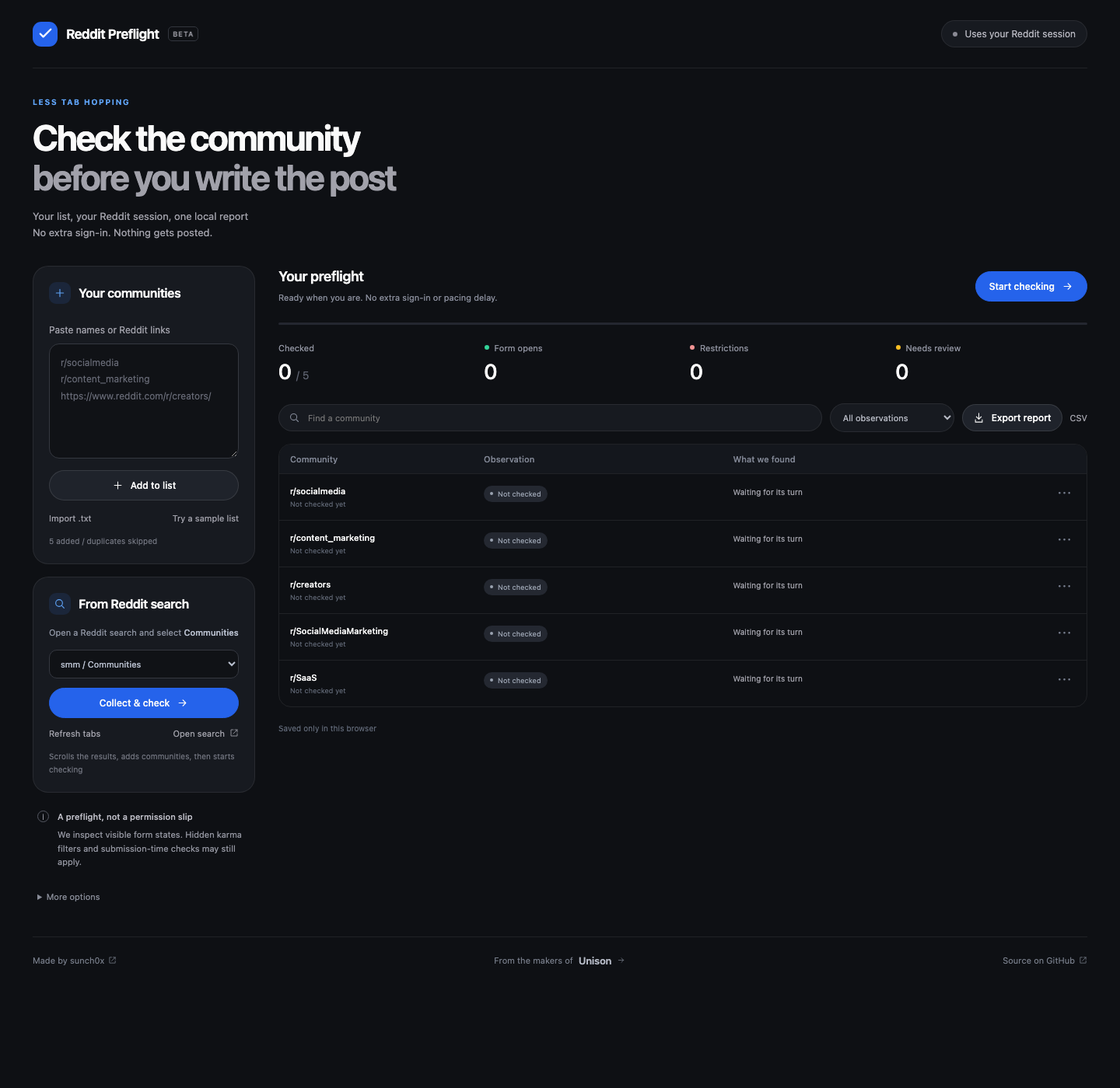
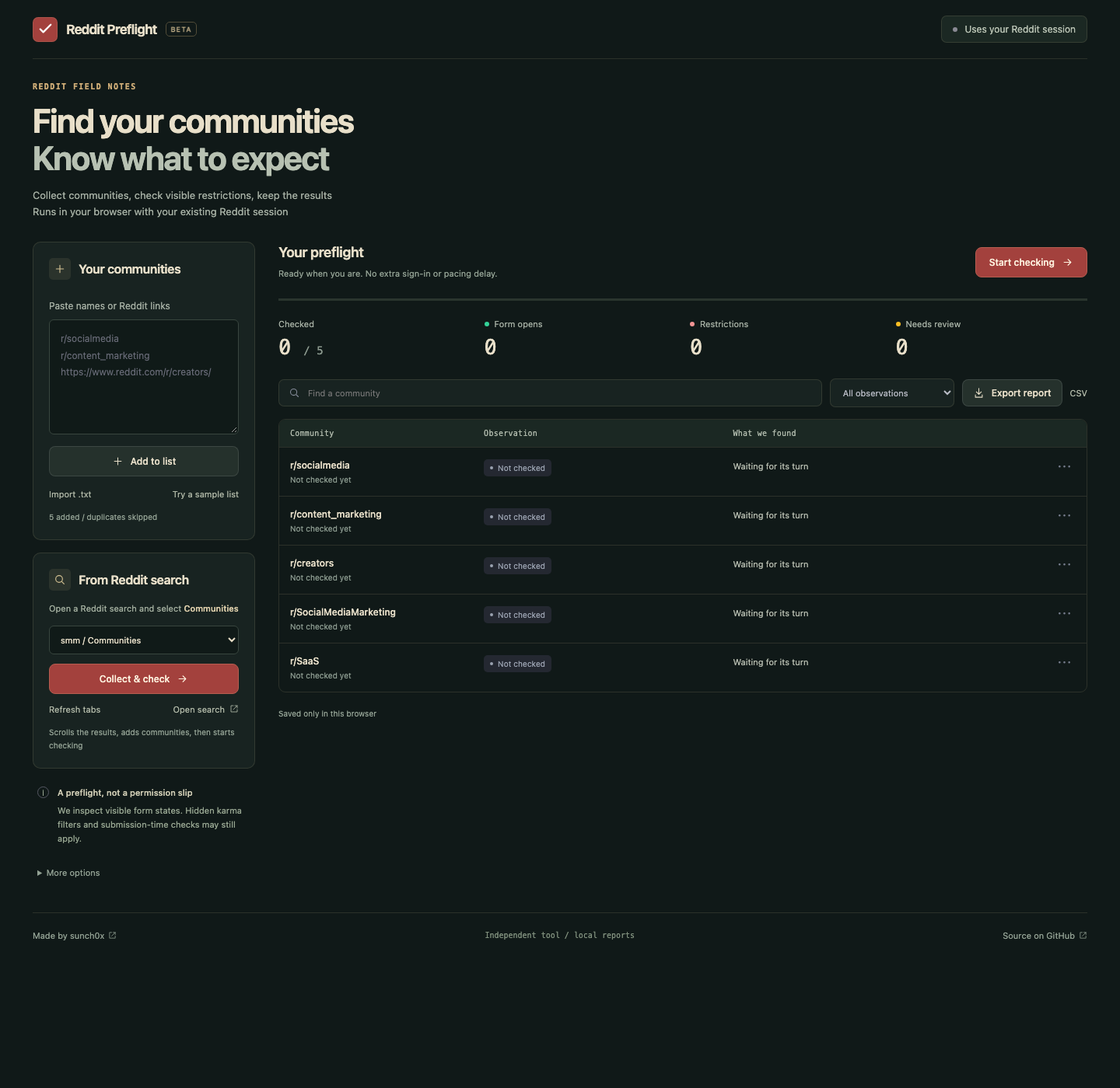
Give Preflight an independent visual identity and detect media requirements

diff --git a/extension/style.css b/extension/style.css
@@ -1,3 +1,12 @@
-:root{font-family:-apple-system,BlinkMacSystemFont,"Segoe UI",sans-serif;color:#fafafa;background:#0e1014;color-scheme:dark;--surface:#171a20;--muted:#a1a1aa;--line:rgba(255,255,255,.08);--blue:#60a5fa;--ease:cubic-bezier(.16,1,.3,1)}*{box-sizing:border-box}body{margin:0}button,input,select,textarea{font:inherit}button,a,input,select,summary{touch-action:manipulation}button{cursor:pointer}button:disabled{opacity:.4;cursor:default}button[hidden],[hidden]{display:none!important}.app{max-width:1460px;margin:auto;padding:0 42px}svg{width:18px;height:18px;fill:none;stroke:currentColor;stroke-width:1.7;stroke-linecap:round;stroke-linejoin:round;flex-shrink:0}.svg-defs{position:absolute;width:0;height:0;overflow:hidden}a{color:inherit;text-decoration:none}a:hover{color:var(--blue)}button:focus-visible,a:focus-visible,summary:focus-visible,input:focus-visible,textarea:focus-visible,select:focus-visible{outline:2px solid var(--blue);outline-offset:4px}.topbar{height:88px;display:flex;align-items:center;justify-content:space-between;gap:20px;border-bottom:1px solid var(--line)}.wordmark{display:flex;align-items:center;gap:11px;font-size:17px;font-weight:650;letter-spacing:-.025em}.brand-mark{height:32px;width:32px;border-radius:11px;background:#2563eb;display:grid;place-items:center;color:white}.brand-mark svg{width:23px;height:23px;stroke-width:2.4}.beta{font-size:9px;letter-spacing:.1em;font-weight:550;color:#a1a1aa;border:1px solid #33363e;border-radius:5px;padding:3px 5px;margin-left:1px}.account-pill{display:flex;align-items:center;gap:9px;padding:9px 14px;border:1px solid var(--line);border-radius:999px;background:#171a20;color:#b5b5be;font-size:12px;max-width:350px;overflow:hidden}.dot{display:inline-block;width:6px;height:6px;border-radius:50%;background:#8a8a94;flex-shrink:0}.good{background:#34d399}.bad{background:#f29494}.neutral{background:#fbbf24}.intro{padding:37px 0 32px;animation:arrive .55s var(--ease) both}.eyebrow{font-size:10px;letter-spacing:.16em;color:var(--blue);font-weight:650;margin-bottom:14px}h1{font-size:clamp(33px,3.2vw,47px);line-height:1.11;letter-spacing:-.045em;margin:0;font-weight:650}h1 span{color:#a1a1aa}.intro p{font-size:13px;line-height:1.6;color:var(--muted);margin:15px 0 0}h2{font-size:16px;letter-spacing:-.02em;font-weight:600;margin:0}h3{font-size:16px;font-weight:500;letter-spacing:-.02em}.workspace{display:grid;grid-template-columns:286px minmax(0,1fr);gap:30px;align-items:start;padding-bottom:28px}aside{animation:arrive .6s .05s var(--ease) both}.panel{border:1px solid var(--line);border-radius:20px;background:var(--surface);padding:20px}.panel-heading{display:flex;align-items:center;gap:10px;margin-bottom:23px}.icon-tile{width:28px;height:28px;display:grid;place-items:center;background:rgba(59,130,246,.12);color:var(--blue);border-radius:9px}.icon-tile svg{width:16px;height:16px}label{color:var(--muted);font-size:12px}textarea{display:block;width:100%;resize:vertical;min-height:148px;max-height:350px;margin:10px 0 15px;padding:13px 14px;border:1px solid #353840;border-radius:13px;background:#101216;font-size:12px;line-height:1.8;color:#fafafa}textarea::placeholder{color:#666975}.button{display:inline-flex;justify-content:center;align-items:center;gap:9px;white-space:nowrap;background:#1f232b;border:1px solid rgba(255,255,255,.11);border-radius:999px;padding:11px 17px;color:#fafafa;font-size:12px;font-weight:500;transition:background .18s,transform .24s var(--ease),box-shadow .2s;position:relative;overflow:hidden}.button:not(:disabled):hover{background:#282d37;transform:translateY(-1px)}.button:not(:disabled):active{transform:scale(.985)}.button.primary{background:#2563eb;border-color:#2563eb}.button.primary:not(:disabled):hover{background:#3275f7;box-shadow:0 4px 18px #2563eb25}.button.primary:not(:disabled):hover svg{transform:translateX(2px)}.button svg{width:15px;height:15px;transition:transform .25s var(--ease)}.full{width:100%}.compact{padding:9px 13px}.text-button{font-size:11px;color:#a1a1aa;border:0;background:transparent;padding:7px 0;display:inline-flex;align-items:center;gap:6px;transition:color .18s,transform .18s var(--ease);cursor:pointer;text-align:left}.text-button:hover{color:#fafafa}.text-button:active{transform:scale(.985)}.text-button svg{width:12px;height:12px}.file-button input{display:none}.import-row{display:flex;justify-content:space-between;gap:8px;margin-top:9px}.micro{font-size:10px;color:#747782;line-height:1.7;margin:8px 0 0;min-height:17px;overflow-wrap:anywhere}.quiet-note{display:flex;gap:11px;padding:22px 6px 12px;color:#92949f;font-size:11px;line-height:1.6}.quiet-note strong{color:#bebec7;font-size:11px;font-weight:500}.quiet-note p{margin:6px 0 0}.note-icon{width:15px;height:15px;flex-shrink:0;text-align:center;line-height:14px;border:1px solid #565964;border-radius:50%;font-size:10px;margin-top:1px}.list-settings{padding:9px 6px;font-size:11px;color:#888c98}.list-settings summary{cursor:pointer;padding:8px 0}.list-settings .text-button,.list-settings .toggle{display:flex;width:100%;margin-top:6px}.toggle{align-items:center;gap:8px;padding:8px 0}.toggle input{accent-color:#2563eb}.danger{color:#f29494}.results{min-width:0;animation:arrive .65s .1s var(--ease) both}.scan-bar{display:flex;justify-content:space-between;gap:20px;align-items:center;min-height:53px}.scan-bar h2{font-size:18px}.scan-bar p{font-size:11px;color:#898d9b;margin:8px 0 0;line-height:1.6;max-width:520px}.run-actions{display:flex;gap:8px;flex-shrink:0}.progress-track{height:3px;border-radius:99px;background:#242730;margin:20px 0 0;overflow:hidden}.progress-track>div{height:100%;width:0;background:#4c91fa;transition:width .4s var(--ease);border-radius:99px}.summary{display:grid;grid-template-columns:repeat(4,1fr);gap:18px;margin:23px 0 25px}.metric span{display:flex;gap:7px;align-items:center;font-size:11px;color:#9093a0}.metric strong{font-size:27px;font-weight:500;letter-spacing:-.04em;display:block;margin-top:8px;font-variant-numeric:tabular-nums}.metric small{font-size:14px;color:#5d626f;font-weight:400;letter-spacing:0;margin-left:2px}.table-tools{display:flex;align-items:center;gap:10px;margin-bottom:15px}.search{display:flex;align-items:center;gap:8px;flex:1;min-width:120px;background:#171a20;border:1px solid var(--line);border-radius:999px;padding:9px 12px}.search svg{width:15px;height:15px;color:#858b99}.search input{min-width:0;width:100%;border:0;background:transparent;outline:none;font-size:11px;color:#fafafa}.search:focus-within{border-color:#60a5fa}.table-tools select{max-width:160px;font-size:11px;padding:10px 12px;border:1px solid var(--line);border-radius:999px;background:#171a20;color:#b9bcc6}.export-actions{display:flex;gap:10px;align-items:center}.empty{min-height:300px;display:flex;flex-direction:column;align-items:center;justify-content:center;text-align:center;border:1px dashed #2a2e38;border-radius:17px;padding:30px}.empty-mark{display:grid;place-items:center;width:46px;height:46px;border-radius:15px;background:#171e2b;color:#60a5fa}.empty-mark svg{width:26px;height:26px}.empty h3{margin:18px 0 7px}.empty p{font-size:12px;line-height:1.8;color:#747b89;margin:0}.table-wrap{border:1px solid var(--line);border-radius:16px;overflow:auto;max-height:540px}table{width:100%;border-collapse:collapse;font-size:11px}th{text-align:left;font-weight:500;color:#808694;background:#14171d;padding:12px 14px;position:sticky;top:0;z-index:2}td{border-top:1px solid var(--line);padding:15px 14px;vertical-align:top}td:first-child{width:24%;min-width:150px}td:nth-child(2){min-width:140px}td:nth-child(3){max-width:330px;min-width:180px;color:#a1a1aa;font-size:10px;line-height:1.7}td:last-child{width:40px}td small{display:block;color:#626977;margin-top:5px;font-size:9px}td a{font-weight:500}tr{transition:background .2s}tr:hover{background:#171a20}.badge{display:inline-flex;align-items:center;gap:6px;border-radius:999px;background:#242831;color:#9aa2b0;padding:5px 8px;font-size:9px;white-space:nowrap}.badge:before{content:"";width:4px;height:4px;border-radius:50%;background:currentColor}.form_open{background:#112c25;color:#78c8ab}.blocked,.restricted,.unavailable,.manual_bad{background:#352329;color:#efa4ac}.unknown,.login,.challenge,.rate_limit,.session_changed{background:#352d1d;color:#d7b779}.user_confirmed{background:#28243a;color:#b3a2e4}.checking{background:#152b4c;color:#78adf2}.checking:before{animation:breathe 1.3s ease-in-out infinite}.row-action{position:relative}.row-action>button{background:none;border:0;color:#767d8d;font-size:19px;line-height:1;padding:0 5px}.row-action>button:hover{color:white}.row-menu{position:absolute;right:0;top:25px;width:158px;border:1px solid #353a47;border-radius:12px;background:#20242d;padding:6px;box-shadow:0 15px 35px #0008;z-index:3}.row-menu button{display:block;background:transparent;border:0;text-align:left;color:#c9cdd7;font:inherit;padding:9px 10px;border-radius:7px;width:100%}.row-menu button:hover{background:#303744;color:white}.scan-details{display:flex;align-items:center;justify-content:space-between;gap:10px;min-height:38px;margin-top:8px;color:#626a79;font-size:10px}.scan-details>div{display:flex;gap:14px}.no-matches{text-align:center;padding:20px;color:#8a93a3;font-size:12px}footer{border-top:1px solid var(--line);padding:22px 0 26px;display:flex;justify-content:space-between;gap:20px;color:#777d8a;font-size:11px;align-items:center}footer a{display:inline-flex;align-items:center;gap:5px}footer svg{width:11px;height:11px}footer .unison-link{gap:7px}footer strong{font-size:13px;letter-spacing:-.02em;font-weight:600;color:#b5bac6}dialog{background:#171a20;color:#fafafa;border:1px solid #353a45;border-radius:22px;padding:25px;max-width:440px;width:90%;box-shadow:0 25px 90px #0008}dialog::backdrop{background:#0009;backdrop-filter:blur(5px)}dialog[open]{animation:arrive .2s var(--ease)}dialog p{font-size:13px;color:#a1a1aa;line-height:1.7}.dialog-actions{display:flex;justify-content:flex-end;gap:9px;margin-top:24px}.sr-only{position:absolute;width:1px;height:1px;overflow:hidden;clip:rect(0,0,0,0)}::-webkit-scrollbar{width:6px;height:6px}::-webkit-scrollbar-thumb{background:#373d49;border-radius:10px}::-webkit-scrollbar-track{background:transparent}@keyframes arrive{from{opacity:0;transform:translateY(7px)}to{opacity:1;transform:translateY(0)}}@keyframes breathe{50%{opacity:.3}}@media(max-width:1100px){.app{padding:0 25px}.workspace{grid-template-columns:252px minmax(0,1fr);gap:22px}.table-tools{flex-wrap:wrap}.export-actions{margin-left:auto}.scan-bar{align-items:flex-start}.run-actions .button{padding:10px 12px}.summary{gap:8px}.account-pill{font-size:10px}}@media(max-width:760px){.app{padding:0 18px}.topbar{height:76px}.wordmark{font-size:15px}.account-pill{max-width:155px}.beta{display:none}.intro{padding:28px 0}.workspace{grid-template-columns:1fr}.intro br{display:none}.intro p br{display:initial}aside{display:grid;grid-template-columns:1fr}.quiet-note{padding:13px 5px}.list-settings{padding:0 5px}.summary{margin:20px 0}.metric strong{font-size:25px}.scan-bar{gap:12px}.scan-bar h2{font-size:17px}.table-tools{gap:8px}.table-tools select{max-width:145px}.search{flex-basis:45%}footer{flex-wrap:wrap;justify-content:flex-start;gap:14px 22px}.scan-details{align-items:flex-start}.scan-details>div{gap:7px;flex-wrap:wrap}.scan-details>span{max-width:155px}.table-wrap{max-height:450px}}@media(prefers-reduced-motion:reduce){*,*::before,*::after{animation:none!important;transition:none!important;scroll-behavior:auto!important}}
+:root{font-family:-apple-system,BlinkMacSystemFont,"Segoe UI",sans-serif;color:#e8dfc9;background:#101918;color-scheme:dark;--surface:#182321;--muted:#a6b0a4;--line:rgba(255,255,255,.08);--accent:#d6c394;--ease:cubic-bezier(.16,1,.3,1)}*{box-sizing:border-box}body{margin:0}button,input,select,textarea{font:inherit}button,a,input,select,summary{touch-action:manipulation}button{cursor:pointer}button:disabled{opacity:.4;cursor:default}button[hidden],[hidden]{display:none!important}.app{max-width:1460px;margin:auto;padding:0 42px}svg{width:18px;height:18px;fill:none;stroke:currentColor;stroke-width:1.7;stroke-linecap:round;stroke-linejoin:round;flex-shrink:0}.svg-defs{position:absolute;width:0;height:0;overflow:hidden}a{color:inherit;text-decoration:none}a:hover{color:var(--accent)}button:focus-visible,a:focus-visible,summary:focus-visible,input:focus-visible,textarea:focus-visible,select:focus-visible{outline:2px solid var(--accent);outline-offset:4px}.topbar{height:88px;display:flex;align-items:center;justify-content:space-between;gap:20px;border-bottom:1px solid var(--line)}.wordmark{display:flex;align-items:center;gap:11px;font-size:17px;font-weight:650;letter-spacing:-.025em}.brand-mark{height:32px;width:32px;border-radius:11px;background:#a3413d;display:grid;place-items:center;color:white}.brand-mark svg{width:23px;height:23px;stroke-width:2.4}.beta{font-size:9px;letter-spacing:.1em;font-weight:550;color:#a6b0a4;border:1px solid #33363e;border-radius:5px;padding:3px 5px;margin-left:1px}.account-pill{display:flex;align-items:center;gap:9px;padding:9px 14px;border:1px solid var(--line);border-radius:999px;background:#182321;color:#b5b5be;font-size:12px;max-width:350px;overflow:hidden}.dot{display:inline-block;width:6px;height:6px;border-radius:50%;background:#8a8a94;flex-shrink:0}.good{background:#34d399}.bad{background:#f29494}.neutral{background:#fbbf24}.intro{padding:37px 0 32px;animation:arrive .55s var(--ease) both}.eyebrow{font-size:10px;letter-spacing:.16em;color:var(--accent);font-weight:650;margin-bottom:14px}h1{font-size:clamp(33px,3.2vw,47px);line-height:1.11;letter-spacing:-.045em;margin:0;font-weight:650}h1 span{color:#a6b0a4}.intro p{font-size:13px;line-height:1.6;color:var(--muted);margin:15px 0 0}h2{font-size:16px;letter-spacing:-.02em;font-weight:600;margin:0}h3{font-size:16px;font-weight:500;letter-spacing:-.02em}.workspace{display:grid;grid-template-columns:286px minmax(0,1fr);gap:30px;align-items:start;padding-bottom:28px}aside{animation:arrive .6s .05s var(--ease) both}.panel{border:1px solid var(--line);border-radius:20px;background:var(--surface);padding:20px}.panel-heading{display:flex;align-items:center;gap:10px;margin-bottom:23px}.icon-tile{width:28px;height:28px;display:grid;place-items:center;background:rgba(214,195,148,.1);color:var(--accent);border-radius:9px}.icon-tile svg{width:16px;height:16px}label{color:var(--muted);font-size:12px}textarea{display:block;width:100%;resize:vertical;min-height:148px;max-height:350px;margin:10px 0 15px;padding:13px 14px;border:1px solid #39463f;border-radius:13px;background:#101a18;font-size:12px;line-height:1.8;color:#e8dfc9}textarea::placeholder{color:#666975}.button{display:inline-flex;justify-content:center;align-items:center;gap:9px;white-space:nowrap;background:#25312c;border:1px solid rgba(255,255,255,.11);border-radius:999px;padding:11px 17px;color:#e8dfc9;font-size:12px;font-weight:500;transition:background .18s,transform .24s var(--ease),box-shadow .2s;position:relative;overflow:hidden}.button:not(:disabled):hover{background:#344139;transform:translateY(-1px)}.button:not(:disabled):active{transform:scale(.985)}.button.primary{background:#a3413d;border-color:#a3413d}.button.primary:not(:disabled):hover{background:#b75148;box-shadow:0 4px 18px #a3413d25}.button.primary:not(:disabled):hover svg{transform:translateX(2px)}.button svg{width:15px;height:15px;transition:transform .25s var(--ease)}.full{width:100%}.compact{padding:9px 13px}.text-button{font-size:11px;color:#a6b0a4;border:0;background:transparent;padding:7px 0;display:inline-flex;align-items:center;gap:6px;transition:color .18s,transform .18s var(--ease);cursor:pointer;text-align:left}.text-button:hover{color:#e8dfc9}.text-button:active{transform:scale(.985)}.text-button svg{width:12px;height:12px}.file-button input{display:none}.import-row{display:flex;justify-content:space-between;gap:8px;margin-top:9px}.micro{font-size:10px;color:#747782;line-height:1.7;margin:8px 0 0;min-height:17px;overflow-wrap:anywhere}.quiet-note{display:flex;gap:11px;padding:22px 6px 12px;color:#92949f;font-size:11px;line-height:1.6}.quiet-note strong{color:#bebec7;font-size:11px;font-weight:500}.quiet-note p{margin:6px 0 0}.note-icon{width:15px;height:15px;flex-shrink:0;text-align:center;line-height:14px;border:1px solid #565964;border-radius:50%;font-size:10px;margin-top:1px}.list-settings{padding:9px 6px;font-size:11px;color:#888c98}.list-settings summary{cursor:pointer;padding:8px 0}.list-settings .text-button,.list-settings .toggle{display:flex;width:100%;margin-top:6px}.toggle{align-items:center;gap:8px;padding:8px 0}.toggle input{accent-color:#a3413d}.danger{color:#f29494}.results{min-width:0;animation:arrive .65s .1s var(--ease) both}.scan-bar{display:flex;justify-content:space-between;gap:20px;align-items:center;min-height:53px}.scan-bar h2{font-size:18px}.scan-bar p{font-size:11px;color:#898d9b;margin:8px 0 0;line-height:1.6;max-width:520px}.run-actions{display:flex;gap:8px;flex-shrink:0}.progress-track{height:3px;border-radius:99px;background:#2a352e;margin:20px 0 0;overflow:hidden}.progress-track>div{height:100%;width:0;background:#c9b582;transition:width .4s var(--ease);border-radius:99px}.summary{display:grid;grid-template-columns:repeat(4,1fr);gap:18px;margin:23px 0 25px}.metric span{display:flex;gap:7px;align-items:center;font-size:11px;color:#9093a0}.metric strong{font-size:27px;font-weight:500;letter-spacing:-.04em;display:block;margin-top:8px;font-variant-numeric:tabular-nums}.metric small{font-size:14px;color:#5d626f;font-weight:400;letter-spacing:0;margin-left:2px}.table-tools{display:flex;align-items:center;gap:10px;margin-bottom:15px}.search{display:flex;align-items:center;gap:8px;flex:1;min-width:120px;background:#182321;border:1px solid var(--line);border-radius:999px;padding:9px 12px}.search svg{width:15px;height:15px;color:#858b99}.search input{min-width:0;width:100%;border:0;background:transparent;outline:none;font-size:11px;color:#e8dfc9}.search:focus-within{border-color:#d6c394}.table-tools select{max-width:160px;font-size:11px;padding:10px 12px;border:1px solid var(--line);border-radius:999px;background:#182321;color:#b9bcc6}.export-actions{display:flex;gap:10px;align-items:center}.empty{min-height:300px;display:flex;flex-direction:column;align-items:center;justify-content:center;text-align:center;border:1px dashed #2a2e38;border-radius:17px;padding:30px}.empty-mark{display:grid;place-items:center;width:46px;height:46px;border-radius:15px;background:#282e24;color:#d6c394}.empty-mark svg{width:26px;height:26px}.empty h3{margin:18px 0 7px}.empty p{font-size:12px;line-height:1.8;color:#747b89;margin:0}.table-wrap{border:1px solid var(--line);border-radius:16px;overflow:auto;max-height:540px}table{width:100%;border-collapse:collapse;font-size:11px}th{text-align:left;font-weight:500;color:#808694;background:#1b2823;padding:12px 14px;position:sticky;top:0;z-index:2}td{border-top:1px solid var(--line);padding:15px 14px;vertical-align:top}td:first-child{width:24%;min-width:150px}td:nth-child(2){min-width:140px}td:nth-child(3){max-width:330px;min-width:180px;color:#a6b0a4;font-size:10px;line-height:1.7}td:last-child{width:40px}td small{display:block;color:#626977;margin-top:5px;font-size:9px}td a{font-weight:500}tr{transition:background .2s}tr:hover{background:#182321}.badge{display:inline-flex;align-items:center;gap:6px;border-radius:999px;background:#242831;color:#9aa2b0;padding:5px 8px;font-size:9px;white-space:nowrap}.badge:before{content:"";width:4px;height:4px;border-radius:50%;background:currentColor}.form_open{background:#112c25;color:#78c8ab}.blocked,.restricted,.unavailable,.manual_bad{background:#352329;color:#efa4ac}.unknown,.login,.challenge,.rate_limit,.session_changed{background:#352d1d;color:#d7b779}.user_confirmed{background:#28243a;color:#b3a2e4}.checking{background:#302e23;color:#ddca98}.checking:before{animation:breathe 1.3s ease-in-out infinite}.row-action{position:relative}.row-action>button{background:none;border:0;color:#767d8d;font-size:19px;line-height:1;padding:0 5px}.row-action>button:hover{color:white}.row-menu{position:absolute;right:0;top:25px;width:158px;border:1px solid #353a47;border-radius:12px;background:#24322b;padding:6px;box-shadow:0 15px 35px #0008;z-index:3}.row-menu button{display:block;background:transparent;border:0;text-align:left;color:#c9cdd7;font:inherit;padding:9px 10px;border-radius:7px;width:100%}.row-menu button:hover{background:#35453a;color:white}.scan-details{display:flex;align-items:center;justify-content:space-between;gap:10px;min-height:38px;margin-top:8px;color:#626a79;font-size:10px}.scan-details>div{display:flex;gap:14px}.no-matches{text-align:center;padding:20px;color:#8a93a3;font-size:12px}footer{border-top:1px solid var(--line);padding:22px 0 26px;display:flex;justify-content:space-between;gap:20px;color:#777d8a;font-size:11px;align-items:center}footer a{display:inline-flex;align-items:center;gap:5px}footer svg{width:11px;height:11px}footer strong{font-size:13px;letter-spacing:-.02em;font-weight:600;color:#b5bac6}dialog{background:#182321;color:#e8dfc9;border:1px solid #353a45;border-radius:22px;padding:25px;max-width:440px;width:90%;box-shadow:0 25px 90px #0008}dialog::backdrop{background:#0009;backdrop-filter:blur(5px)}dialog[open]{animation:arrive .2s var(--ease)}dialog p{font-size:13px;color:#a6b0a4;line-height:1.7}.dialog-actions{display:flex;justify-content:flex-end;gap:9px;margin-top:24px}.sr-only{position:absolute;width:1px;height:1px;overflow:hidden;clip:rect(0,0,0,0)}::-webkit-scrollbar{width:6px;height:6px}::-webkit-scrollbar-thumb{background:#46584a;border-radius:10px}::-webkit-scrollbar-track{background:transparent}@keyframes arrive{from{opacity:0;transform:translateY(7px)}to{opacity:1;transform:translateY(0)}}@keyframes breathe{50%{opacity:.3}}@media(max-width:1100px){.app{padding:0 25px}.workspace{grid-template-columns:252px minmax(0,1fr);gap:22px}.table-tools{flex-wrap:wrap}.export-actions{margin-left:auto}.scan-bar{align-items:flex-start}.run-actions .button{padding:10px 12px}.summary{gap:8px}.account-pill{font-size:10px}}@media(max-width:760px){.app{padding:0 18px}.topbar{height:76px}.wordmark{font-size:15px}.account-pill{max-width:155px}.beta{display:none}.intro{padding:28px 0}.workspace{grid-template-columns:1fr}.intro br{display:none}.intro p br{display:initial}aside{display:grid;grid-template-columns:1fr}.quiet-note{padding:13px 5px}.list-settings{padding:0 5px}.summary{margin:20px 0}.metric strong{font-size:25px}.scan-bar{gap:12px}.scan-bar h2{font-size:17px}.table-tools{gap:8px}.table-tools select{max-width:145px}.search{flex-basis:45%}footer{flex-wrap:wrap;justify-content:flex-start;gap:14px 22px}.scan-details{align-items:flex-start}.scan-details>div{gap:7px;flex-wrap:wrap}.scan-details>span{max-width:155px}.table-wrap{max-height:450px}}@media(prefers-reduced-motion:reduce){*,*::before,*::after{animation:none!important;transition:none!important;scroll-behavior:auto!important}}
 
-.collect-panel{margin-top:16px}.collect-panel .panel-heading{margin-bottom:14px}.collect-panel>p:not(.micro){color:#8d93a1;font-size:11px;line-height:1.7;margin:0 0 12px}.collect-panel strong{color:#b9c0cf;font-weight:500}.collect-panel select{width:100%;min-width:0;margin:0 0 12px;border:1px solid #353840;border-radius:10px;background:#101216;color:#b9c0cf;padding:10px;font-size:11px}.collect-panel .import-row{margin-top:6px}
+.collect-panel{margin-top:16px}.collect-panel .panel-heading{margin-bottom:14px}.collect-panel>p:not(.micro){color:#8d93a1;font-size:11px;line-height:1.7;margin:0 0 12px}.collect-panel strong{color:#b9c0cf;font-weight:500}.collect-panel select{width:100%;min-width:0;margin:0 0 12px;border:1px solid #39463f;border-radius:10px;background:#101a18;color:#b9c0cf;padding:10px;font-size:11px}.collect-panel .import-row{margin-top:6px}
+
+/* Independent field-notes identity */
+:root{--accent:#d6c394;--surface:#182321;--muted:#a6b0a4;--line:rgba(214,195,148,.14)}
+.app{max-width:1500px}.topbar{height:76px}.wordmark{letter-spacing:-.035em}.brand-mark{border-radius:7px;background:#a3413d;box-shadow:inset 0 0 0 1px #e2c89e22}.beta{color:#bdab85;border-color:#514c38}
+.intro{padding:30px 0 28px}h1{font-size:clamp(30px,3vw,43px);letter-spacing:-.035em}h1 span{color:#b7c1b2}.eyebrow{font-family:ui-monospace,SFMono-Regular,monospace;font-size:10px;color:#cfad77;letter-spacing:.14em}.intro p{max-width:580px}
+.panel{border-radius:10px}.button{border-radius:8px}.button.primary{background:#a3413d;border-color:#b65d50;color:#fff2df}.button.primary:not(:disabled):hover{background:#b75148;box-shadow:0 3px 12px #0003}.icon-tile{border-radius:5px}.account-pill{border-radius:7px;color:#b7c1b2;background:#1b2823}
+textarea,.collect-panel select{border-radius:6px;color:#e8dfc9}.search,.table-tools select{border-radius:7px}.search input{color:#e8dfc9}.table-wrap,.empty{border-radius:9px}.empty-mark{border-radius:7px}.progress-track,.progress-track>div{border-radius:0}
+th{font-family:ui-monospace,SFMono-Regular,monospace;font-size:10px;letter-spacing:.025em;color:#b2bcae}table{font-size:12px}td:nth-child(3){font-size:11px;color:#b7bdb0}td small{color:#8b9a8f;font-size:10px}.badge{border-radius:5px;font-size:10px}.metric span{color:#a6b0a4}.metric strong{font-family:ui-monospace,SFMono-Regular,monospace;font-weight:500}.metric small{color:#8b998e}
+.scan-bar p,.micro,.scan-details,footer,.list-settings{color:#93a294}.text-button{color:#b0b8a7}.text-button:hover{color:#ead7aa}.quiet-note{color:#99a893}.quiet-note strong{color:#cfccb4}.collect-panel>p:not(.micro){color:#a4b0a0}.collect-panel strong{color:#e0d1ad}.row-menu{background:#24322b;border-color:#465547;border-radius:7px}.row-menu button{color:#e0d8c1}.row-menu button:hover{background:#35453a}.checking{background:#343525;color:#e2ce9c}.user_confirmed{background:#273e33;color:#b7d4b0}dialog{background:#182321;border-color:#465547;border-radius:11px}.footer-note{font:10px ui-monospace,SFMono-Regular,monospace;color:#81917e}a:hover{color:var(--accent)}

diff --git a/extension/dashboard.html b/extension/dashboard.html
@@ -1,7 +1,7 @@
 <!doctype html><html lang="en"><head><meta charset="utf-8"><meta name="viewport" content="width=device-width,initial-scale=1"><title>Reddit Preflight</title><link rel="stylesheet" href="style.css"></head><body>
 <svg class="svg-defs" aria-hidden="true"><defs><symbol id="check" viewBox="0 0 24 24"><path d="m5 12 4 4L19 6"/></symbol><symbol id="arrow" viewBox="0 0 24 24"><path d="M5 12h14m-6-6 6 6-6 6"/></symbol><symbol id="plus" viewBox="0 0 24 24"><path d="M12 5v14M5 12h14"/></symbol><symbol id="download" viewBox="0 0 24 24"><path d="M12 3v12m-5-5 5 5 5-5M5 16v5h14v-5"/></symbol><symbol id="search-icon" viewBox="0 0 24 24"><circle cx="10.5" cy="10.5" r="6.5"/><path d="m16 16 4 4"/></symbol><symbol id="pause-icon" viewBox="0 0 24 24"><path d="M8 5v14M16 5v14"/></symbol><symbol id="external" viewBox="0 0 24 24"><path d="M14 4h6v6m0-6L10 14M10 4H4v16h16v-6"/></symbol><symbol id="trash" viewBox="0 0 24 24"><path d="M3 6h18M9 6V3h6v3M6 6l1 15h10l1-15M10 10v7m4-7v7"/></symbol></defs></svg>
 <div class="app"><header class="topbar"><a class="wordmark" href="dashboard.html"><span class="brand-mark"><svg><use href="#check"/></svg></span>Reddit Preflight <span class="beta">BETA</span></a><div class="account-pill" id="account-pill"><span class="dot"></span><span id="account-label">Uses your Reddit session</span></div></header>
-<section class="intro"><div class="eyebrow">LESS TAB HOPPING</div><h1>Check the community <br><span>before you write the post</span></h1><p>Your list, your Reddit session, one local report<br>No extra sign-in. Nothing gets posted.</p></section>
+<section class="intro"><div class="eyebrow">REDDIT FIELD NOTES</div><h1>Find your communities<br><span>Know what to expect</span></h1><p>Collect communities, check visible restrictions, keep the results<br>Runs in your browser with your existing Reddit session</p></section>
 <div class="workspace"><aside><section class="panel input-panel"><div class="panel-heading"><span class="icon-tile"><svg><use href="#plus"/></svg></span><h2>Your communities</h2></div><label for="community-input">Paste names or Reddit links</label><textarea id="community-input" spellcheck="false" placeholder="r/socialmedia&#10;r/content_marketing&#10;https://www.reddit.com/r/creators/"></textarea><button id="add" class="button full"><svg><use href="#plus"/></svg>Add to list</button><div class="import-row"><label class="text-button file-button">Import .txt<input id="import-list" type="file" accept=".txt,text/plain"></label><button id="sample" class="text-button">Try a sample list</button></div><p class="micro" id="input-message" role="status">Duplicates are removed automatically</p></section>
 <section class="panel collect-panel"><div class="panel-heading"><span class="icon-tile"><svg><use href="#search-icon"/></svg></span><h2>From Reddit search</h2></div><p>Open a Reddit search and select <strong>Communities</strong></p><label class="sr-only" for="source-tab">Reddit search tab</label><select id="source-tab"><option value="">Looking for open search tabs…</option></select><button id="collect" class="button primary full"><span id="collect-label">Collect &amp; check</span><svg><use href="#arrow"/></svg></button><div class="import-row"><button id="refresh-source" class="text-button">Refresh tabs</button><a class="text-button" href="https://www.reddit.com/search/?q=social%20media&amp;type=communities" target="_blank" rel="noopener noreferrer">Open search <svg><use href="#external"/></svg></a></div><p class="micro" id="collect-message" role="status">Scrolls the results, adds communities, then starts checking</p></section>
 <section class="quiet-note"><span class="note-icon">i</span><div><strong>A preflight, not a permission slip</strong><p>We inspect visible form states. Hidden karma filters and submission-time checks may still apply.</p></div></section>
@@ -13,6 +13,6 @@
 <div id="empty" class="empty"><div class="empty-mark"><svg><use href="#check"/></svg></div><h3>A little checking, a lot less guessing</h3><p>Add your communities on the left<br>We’ll check them in one reusable tab</p></div>
 <div class="table-wrap" id="table-wrap" hidden><table><thead><tr><th>Community</th><th>Observation</th><th>What we found</th><th><span class="sr-only">Actions</span></th></tr></thead><tbody id="rows"></tbody></table></div><p id="no-matches" class="no-matches" hidden>No matching communities</p>
 <div class="scan-details"><span id="local-label">Saved only in this browser</span><div><button id="view" class="text-button" hidden>View scanning tab <svg><use href="#external"/></svg></button><button id="close" class="text-button" hidden>Close scanning tab</button></div></div>
-</section></div><footer><div>Made by <a href="https://linkdeck.co/sunch0x" target="_blank" rel="noopener noreferrer">sunch0x <svg><use href="#external"/></svg></a></div><a class="unison-link" href="https://unison.ink" target="_blank" rel="noopener noreferrer">From the makers of <strong>Unison</strong><svg><use href="#arrow"/></svg></a><a href="https://github.com/sunch0x/reddit-preflight" target="_blank" rel="noopener noreferrer">Source on GitHub <svg><use href="#external"/></svg></a></footer></div>
+</section></div><footer><div>Made by <a href="https://linkdeck.co/sunch0x" target="_blank" rel="noopener noreferrer">sunch0x <svg><use href="#external"/></svg></a></div><span class="footer-note">Independent tool / local reports</span><a href="https://github.com/sunch0x/reddit-preflight" target="_blank" rel="noopener noreferrer">Source on GitHub <svg><use href="#external"/></svg></a></footer></div>
 <dialog id="confirm-dialog"><form method="dialog"><h2 id="confirm-title">Confirm action</h2><p id="confirm-description"></p><div class="dialog-actions"><button class="button" value="cancel" autofocus>Cancel</button><button id="confirm-action" class="button primary" value="confirm">Continue</button></div></form></dialog>
 <script type="module" src="dashboard.js"></script></body></html>

diff --git a/extension/core.js b/extension/core.js
@@ -1,5 +1,5 @@
 export const LABELS={pending:'Not checked',checking:'Checking',form_open:'Form opens',blocked:'Account requirement',restricted:'Approval required',unavailable:'Community unavailable',unknown:'Needs review',login:'Sign in required',rate_limit:'Rate limited',challenge:'Browser check',user_confirmed:'Manually confirmed',manual_bad:'Manually excluded',session_changed:'Account changed'};
-export const REASONS={age:'Account age',karma:'Karma','age+karma':'Account age and karma',activity:'Account activity',approval:'Moderator approval',private:'Private community',other:'Other',missing:'Unavailable community'};
+export const REASONS={age:'Account age',karma:'Karma','age+karma':'Account age and karma',activity:'Account activity',approval:'Moderator approval',private:'Private community',other:'Other',missing:'Unavailable community',media:'Media or link required'};
 export function normalizeCommunity(input){
  let v=String(input||'').trim();
  if(/^https?:/i.test(v)){try{const u=new URL(v);if(!['www.reddit.com','reddit.com'].includes(u.hostname)||u.username||u.password)return null;v=u.pathname;}catch{return null;}}
@@ -40,6 +40,7 @@ export function classify(s){
   const age=/old enough|account age|come back later|слишком нов|возраст|аккаунт.*молод/.test(g),karma=/karma|карм/.test(g);
   return result('blocked',age&&karma?'age+karma':age?'age':karma?'karma':'activity',gate||personalError);
  }
+ if(s.titleField&&s.mediaRequirement&&/reddit\.com\/r\/[A-Za-z0-9_]+\/submit\/?(?:[?#]|$)/.test(s.url||''))return result('form_open','media',s.mediaRequirement+' The title is editable; add the required content before posting. Submission and moderation were not tested.');
  if(/reddit\.com\/r\/[A-Za-z0-9_]+\/submit\/?(?:[?#]|$)/.test(s.url||'')&&s.titleField&&s.editor)return result('form_open','','Editable title and body were found. Submission and moderation were not tested; hidden or later restrictions may still apply.');
  return result('unknown','other',gate||'No conclusive restriction or complete editable composer was found. Review this community manually.');
 }
@@ -48,7 +49,7 @@ const fields=['name','status','reason','evidence','checkedAt','account','note','
 export function exportCSV(rows){const cell=v=>'"'+String(v??'').replace(/^[\s]*[=+@-]/,m=>"'"+m).replaceAll('"','""')+'"';return '\uFEFF'+[fields.join(','),...rows.map(r=>fields.map(k=>cell(r[k])).join(','))].join('\r\n');}
 export function exportHTML(rows){
  const e=escapeHTML;
- return '<!doctype html><html lang="en"><meta charset="utf-8"><meta name="viewport" content="width=device-width,initial-scale=1"><title>Reddit Preflight report</title><style>body{font:14px/1.6 system-ui;margin:32px;background:#0e1014;color:#fafafa}h1{letter-spacing:-.04em}p{color:#a1a1aa}table{width:100%;border-collapse:collapse}td,th{text-align:left;padding:14px;border-bottom:1px solid #30333b;vertical-align:top;max-width:480px;overflow-wrap:anywhere}th{background:#171a20}a{color:#60a5fa}.scroll{overflow:auto}footer{margin-top:30px}</style><h1>Reddit Preflight</h1><p>'+e(new Date().toISOString())+' / '+rows.length+' communities</p><p>An open form is not posting permission. This report only records visible form states and restrictions. Hidden filters, submission-time checks and moderation were not tested. Account identity is shown only when the page exposed an explicit identifier.</p><div class="scroll"><table><thead><tr><th>Community</th><th>Observation</th><th>Reason</th><th>Evidence</th><th>Checked at</th><th>Detected account</th><th>Note</th></tr></thead><tbody>'+rows.map(r=>'<tr><td><a href="https://www.reddit.com/r/'+e(normalizeCommunity(r.name)||'unknown')+'/">r/'+e(r.name)+'</a></td><td>'+e(LABELS[r.status]||r.status)+'</td><td>'+e(REASONS[r.reason]||r.reason)+'</td><td>'+e(r.evidence)+'</td><td>'+e(r.checkedAt)+'</td><td>'+e(r.account||'Not identified')+'</td><td>'+e(r.note)+'</td></tr>').join('')+'</tbody></table></div><footer>Made by <a href="https://linkdeck.co/sunch0x">sunch0x</a> / From the makers of <a href="https://unison.ink">Unison</a></footer></html>';
+ return '<!doctype html><html lang="en"><meta charset="utf-8"><meta name="viewport" content="width=device-width,initial-scale=1"><title>Reddit Preflight report</title><style>body{font:14px/1.6 system-ui;margin:32px;background:#101918;color:#e8dfc9}h1{letter-spacing:-.04em}p{color:#a6b0a4}table{width:100%;border-collapse:collapse}td,th{text-align:left;padding:14px;border-bottom:1px solid #30333b;vertical-align:top;max-width:480px;overflow-wrap:anywhere}th{background:#182321}a{color:#d6c394}.scroll{overflow:auto}footer{margin-top:30px}</style><h1>Reddit Preflight</h1><p>'+e(new Date().toISOString())+' / '+rows.length+' communities</p><p>An open form is not posting permission. This report only records visible form states and restrictions. Hidden filters, submission-time checks and moderation were not tested. Account identity is shown only when the page exposed an explicit identifier.</p><div class="scroll"><table><thead><tr><th>Community</th><th>Observation</th><th>Reason</th><th>Evidence</th><th>Checked at</th><th>Detected account</th><th>Note</th></tr></thead><tbody>'+rows.map(r=>'<tr><td><a href="https://www.reddit.com/r/'+e(normalizeCommunity(r.name)||'unknown')+'/">r/'+e(r.name)+'</a></td><td>'+e(LABELS[r.status]||r.status)+'</td><td>'+e(REASONS[r.reason]||r.reason)+'</td><td>'+e(r.evidence)+'</td><td>'+e(r.checkedAt)+'</td><td>'+e(r.account||'Not identified')+'</td><td>'+e(r.note)+'</td></tr>').join('')+'</tbody></table></div><footer>Made by <a href="https://linkdeck.co/sunch0x">sunch0x</a></footer></html>';
 }
 export function validateBackup(data){
  if(data?.schema!==2||!Array.isArray(data.rows)||data.rows.length>1000)throw Error('Not a Reddit Preflight backup');

diff --git a/extension/snapshot.js b/extension/snapshot.js
@@ -29,5 +29,6 @@ export function collectSnapshot(){
    for(const link of root.querySelectorAll('a[href]')){const match=(link.getAttribute('href')||'').match(/^(?:https:\/\/www\.reddit\.com)?\/(?:user|u)\/([A-Za-z0-9_-]{3,30})\/?$/);if(match)accountCandidates.push('u/'+match[1]);}
   }
  }
- return {url:location.href,text,gateText,titleField,editor,authDialog,challenge,accountCandidates};
+ const mediaRequirement=shown.filter(el=>!el.closest('aside')&&el.children.length<3).map(readable).find(t=>t.length<240&&/^This community requires you to add an image, video, or link[.!]?$/i.test(t))||'';
+ return {url:location.href,text,gateText,titleField,editor,authDialog,challenge,accountCandidates,mediaRequirement};
 }

diff --git a/README.md b/README.md
@@ -8,7 +8,7 @@ A small, local Chrome extension that visits your community list in one reusable 
 
 Dashboard with an example community list, before a scan. No sample eligibility results are prefilled.
 
-Made by [sunch0x](https://linkdeck.co/sunch0x), from the makers of [Unison](https://unison.ink).
+An independent tool by [sunch0x](https://linkdeck.co/sunch0x).
 
 ## What it does
 
@@ -103,4 +103,4 @@ The extension starts with an empty list. The optional sample list contains only 
 
 See [PRIVACY.md](PRIVACY.md). Runtime code and assets are local; no results are uploaded. Creator and product links are regular links, not trackers.
 
-MIT licensed. Reddit and Unison names refer to their respective owners. This project is not affiliated with or endorsed by Reddit. The Unison application is a separate product and is not included in this repository.
+MIT licensed. This independent project is not affiliated with or endorsed by Reddit.

diff --git a/PRIVACY.md b/PRIVACY.md
@@ -22,7 +22,7 @@ CSV, HTML reports and JSON backups are written only when you choose an export. T
 
 ## Network activity
 
-The extension itself does not send scan results to a server. Opening Reddit pages makes normal requests to Reddit, which are subject to Reddit's own policies. Creator, Unison and GitHub links open only when clicked and are ordinary external websites with their own policies.
+The extension itself does not send scan results to a server. Opening Reddit pages makes normal requests to Reddit, which are subject to Reddit's own policies. Creator and GitHub links open only when clicked and are ordinary external websites with their own policies.
 
 ## Deletion and permissions
 
